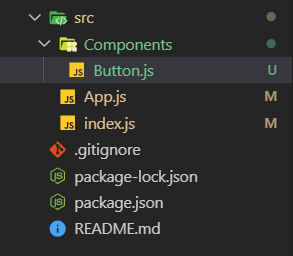
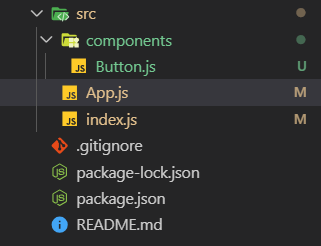
correction page 4, 5 et ajout image

diff --git a/markdown/05-components.md b/markdown/05-components.md
@@ -6,9 +6,11 @@ Pour mieux comprendre comment un component fonctionne, on va comparer notre appl
 
 Un component est fait à partir d'un fichier séparé qu'on exporte vers notre application (ou vers un autre component). Ce component sera généralement constitué d'une section bien spécifique d'une application. On pourrais par exemple créer un component juste pour un formulaire et un autre component juste pour afficher une liste.
 
-Avant de créer notre premier component, on va d'abord créer un dossier au nom de `components` dans le dossier `src`. Ce sera dans ce dossier qu'on créera tous nos component.
+Avant de créer notre premier component, on va d'abord créer un dossier au nom de `Components` dans le dossier `src`. Ce sera dans ce dossier qu'on créera tous nos component. 
 
-Dans ce dossier `components` on va créer un nouveau fichier `Button.js` (ne pas oublier la majuscule)
+_*Petit infos, lorsque vous creer un fichier dans le dossier `Components`, vos noms de fichier doivent commencer par une majuscule._ 
+
+Dans ce dossier `Components` on va créer un nouveau fichier `Button.js` (ne pas oublier la majuscule)
 
 ![button](./img/component/component-button.png)
 
@@ -35,7 +37,7 @@ function Button (props){
 	return <button className='button'>Mon bouton</button>
 }
 ```
-Félicitation vous venez de réaliser votre 1er component
+Félicitation vous venez de réaliser votre 1er component !!
 
 ![congratulation](https://media.giphy.com/media/3o6fIUZTTDl0IDjbZS/giphy.gif)
 
@@ -82,11 +84,9 @@ function Accueil () {
 }
 ```
 
-
-
 ---
 
-Sur cette parenthèse terminé, on va retourner sur notre fichier `app.js`
+Cette petite explication terminée, on va retourner sur notre fichier `app.js`
 
 Pour intégrer notre nouveau component, on va d'abord l'importer. On écrit donc `import`, le nom du composant, `from` avec le chemin vers le fichier JavaScript (sans l'extention .js)
 

diff --git a/markdown/04-structure.md b/markdown/04-structure.md
@@ -43,7 +43,6 @@ Tous les autres fichiers que je n'ai pas cités au dessus sont inutiles pour la 
 * Les fichiers **CSS** ne sont utilisés que pour la mise en page de la page d'introduction généré lors de la création de l'application. Je vous fournirais un CSS déjà créé donc ces fichiers ne sont absolument pas nécessaire
 * Les images et logo dans chaque dossier ne sont plus utiles non plus .
 
-
 ![Arborescence de l'application après nettoyage](./img/arborescence/nettoyage.png)
 
 ---
